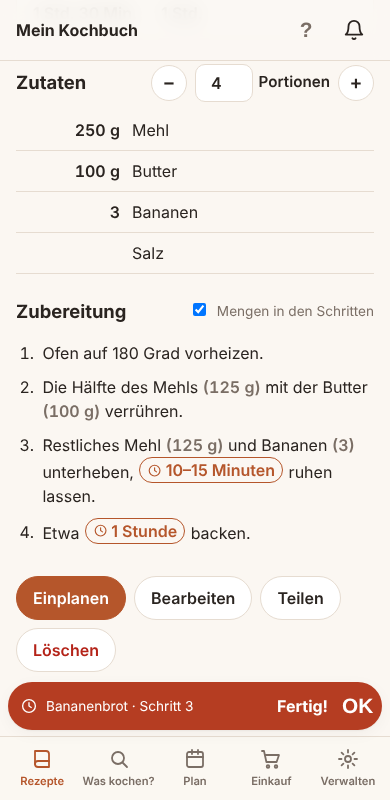
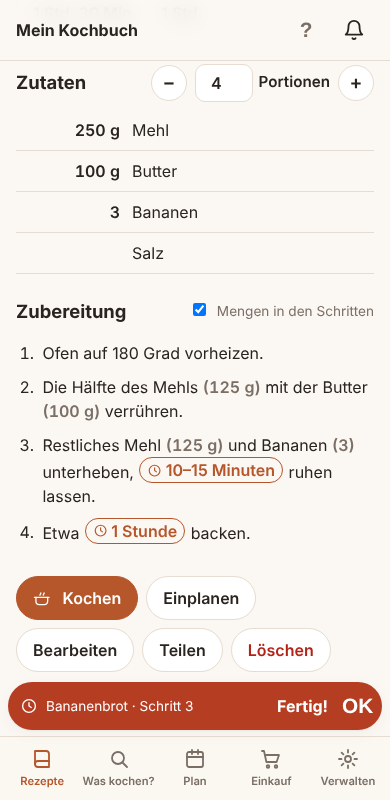
Kochmodus: ein Schritt pro Seite in großer Schrift, Display bleibt an
Claude-Session: https://claude.ai/code/session_01Sn2LMM1asrdDShbnJhnSSW

Changed region(s): [[0.0923, 0.7188, 0.6154, 0.8438], [0.6462, 0.7188, 0.8308, 0.8438]]

diff --git a/js/app.js b/js/app.js
@@ -231,6 +231,161 @@ function stepTextHtml(text, label, amounts = [], amountOf = null) {
   }).join('');
 }
 
+// ---------- Kochmodus ----------
+// Eine Seite über dem ganzen Bildschirm: erst die Zutaten, dann je Schritt eine Seite in
+// großer Schrift, zum Schluss "Fertig". Solange sie offen ist, bleibt das Display an.
+
+let cookMode = null;
+
+async function keepScreenOn() {
+  if (!cookMode) return;
+  try {
+    cookMode.lock = await navigator.wakeLock.request('screen');
+    cookMode.lock.addEventListener?.('release', () => { if (cookMode) cookMode.lock = null; });
+  } catch {
+    cookMode.lock = null;
+    const hint = cookMode.panel.querySelector('.cook-wake');
+    if (hint) hint.hidden = false;
+  }
+}
+
+// Gibt das Display frei, wenn man die App verlässt; beim Zurückkommen wird neu gesperrt.
+document.addEventListener('visibilitychange', () => {
+  if (cookMode && document.visibilityState === 'visible' && !cookMode.lock) keepScreenOn();
+});
+window.addEventListener('hashchange', () => closeCookMode());
+document.addEventListener('keydown', (e) => {
+  if (!cookMode) return;
+  if (e.key === 'Escape') closeCookMode();
+  if (e.key === 'ArrowRight') cookMode.go(1);
+  if (e.key === 'ArrowLeft') cookMode.go(-1);
+});
+
+function closeCookMode() {
+  if (!cookMode) return;
+  const { panel, lock, onClose } = cookMode;
+  cookMode = null;
+  lock?.release?.().catch(() => {});
+  panel.classList.remove('open');
+  setTimeout(() => panel.remove(), 300);
+  document.body.classList.remove('cooking');
+  if (!document.querySelector('dialog[open]')) document.documentElement.classList.remove('sheet-open');
+  onClose?.();
+}
+
+function openCookMode(r, { servings, own, videos = [], onClose }) {
+  closeCookMode();
+  const factor = servings / r.servings;
+  const stepQty = stepAmounts(r.steps.map(stepText), r.ingredients);
+  const amountOf = showStepAmounts() ? ({ ing, share }) => formatQuantity(r.ingredients[ing], factor * share) : null;
+  // Seiten: Zutaten (falls vorhanden), jeder Schritt, Fertig.
+  const pages = [
+    ...(r.ingredients.length ? [{ kind: 'ing' }] : []),
+    ...r.steps.map((s, i) => ({ kind: 'step', i, s })),
+    { kind: 'done' },
+  ];
+  const checks = () => checksFor(loadChecks(), r.id);
+  // Wer schon Schritte abgehakt hat, landet beim Schritt nach dem letzten Haken.
+  const done = checks().steps;
+  const resume = done.length ? pages.findIndex((p) => p.kind === 'step' && p.i === Math.max(...done) + 1) : -1;
+  let at = Math.max(0, resume);
+
+  const panel = document.createElement('section');
+  panel.className = 'cook-mode';
+  panel.setAttribute('role', 'dialog');
+  panel.setAttribute('aria-label', `Kochmodus: ${r.title}`);
+  panel.innerHTML = `<header class="cook-head">
+      <button type="button" class="icon-btn" data-close aria-label="Kochmodus beenden">←</button>
+      <div><h2>${esc(r.title)}</h2><p class="cook-at" aria-live="polite"></p></div>
+    </header>
+    <p class="hint cook-wake" hidden>Dieses Gerät lässt das Display hier nicht dauerhaft an. Tippe ab und zu auf den Bildschirm.</p>
+    <div class="cook-page"></div>
+    <div class="cook-video" hidden></div>
+    <nav class="cook-nav">
+      <button type="button" class="btn" data-go="-1">‹ Zurück</button>
+      <button type="button" class="btn primary" data-go="1">Weiter ›</button>
+    </nav>`;
+  document.body.append(panel);
+  document.body.classList.add('cooking');
+  document.documentElement.classList.add('sheet-open');
+  requestAnimationFrame(() => panel.classList.add('open'));
+  const page = panel.querySelector('.cook-page');
+  const videoBox = panel.querySelector('.cook-video');
+  const stepCount = r.steps.length;
+
+  const closeVideo = () => { videoBox.hidden = true; videoBox.innerHTML = ''; };
+  const draw = () => {
+    const p = pages[at];
+    const c = checks();
+    panel.querySelector('.cook-at').textContent = p.kind === 'ing' ? `Zutaten · ${servings} ${servings === 1 ? 'Portion' : 'Portionen'}`
+      : p.kind === 'step' ? `Schritt ${p.i + 1} von ${stepCount}` : 'Fertig';
+    if (p.kind === 'ing') {
+      page.innerHTML = `<ul class="ingredients cook-ings">${r.ingredients.map((i, ii) => `<li class="checkable${c.ing.includes(ii) ? ' checked' : ''}" data-ing="${ii}">
+        <span class="qty">${esc(formatQuantity(i, factor))}</span><span>${ingredientLabel(i)}</span></li>`).join('')}</ul>`;
+    } else if (p.kind === 'step') {
+      const v = stepVideo(p.s, videos);
+      const t = v ? stepTime(p.s) : null;
+      page.innerHTML = `<p class="cook-step checkable${c.steps.includes(p.i) ? ' checked' : ''}" data-step="${p.i}">${stepTextHtml(stepText(p.s), `${r.title} · Schritt ${p.i + 1}`, stepQty[p.i], amountOf)}</p>
+        ${t != null ? `<button type="button" class="btn small cook-seek" data-t="${t}" data-video="${esc(v.key)}">${symbol('video')}Video ab ${formatTime(t)}</button>` : ''}
+        <p class="hint">Tippe auf den Text, um den Schritt abzuhaken.</p>`;
+    } else {
+      page.innerHTML = `<div class="cook-done">${symbol('cooked')}<p>Guten Appetit!</p>
+        ${own && cookedColumn ? '<button type="button" class="btn primary" data-cooked>Fertig, heute gekocht</button>' : ''}
+        <button type="button" class="btn" data-close>Kochmodus beenden</button></div>`;
+    }
+    panel.querySelector('[data-go="-1"]').disabled = at === 0;
+    const next = panel.querySelector('[data-go="1"]');
+    next.hidden = at === pages.length - 1;
+    page.scrollTop = 0;
+  };
+  const go = (d) => {
+    const n = at + d;
+    if (n < 0 || n >= pages.length) return;
+    at = n;
+    closeVideo();
+    draw();
+  };
+
+  panel.addEventListener('click', async (e) => {
+    if (e.target.closest('[data-close]')) { closeCookMode(); return; }
+    const nav = e.target.closest('[data-go]');
+    if (nav) { go(Number(nav.dataset.go)); return; }
+    const chip = e.target.closest('.timer-chip');
+    if (chip) { addTimer(chip.dataset.label, Number(chip.dataset.timer)); return; }
+    const seek = e.target.closest('.cook-seek');
+    if (seek) {
+      const v = videos.find((x) => x.key === seek.dataset.video);
+      if (!v) return;
+      videoBox.innerHTML = `<div class="cook-video-head"><span>Video</span><button type="button" class="icon-btn" data-video-close aria-label="Video schließen">×</button></div>
+        <div class="video${v.vertical ? ' vertical' : ''}"><iframe src="${esc(embedUrl(v, location.origin, Number(seek.dataset.t)))}" title="Video zum Schritt"
+          allow="autoplay; encrypted-media; picture-in-picture; fullscreen" allowfullscreen referrerpolicy="strict-origin-when-cross-origin"></iframe></div>`;
+      videoBox.hidden = false;
+      return;
+    }
+    if (e.target.closest('[data-video-close]')) { closeVideo(); return; }
+    if (e.target.closest('[data-cooked]')) {
+      const day = today();
+      const { error } = await supabase.from('recipes').update({ last_cooked: day }).eq('id', r.id);
+      if (error) { toast(error.message); return; }
+      r.last_cooked = day;
+      toast('Als heute gekocht gespeichert');
+      closeCookMode();
+      return;
+    }
+    if (e.target.closest('button, a, input')) return;
+    const li = e.target.closest('.checkable');
+    if (!li) return;
+    const kind = li.dataset.ing != null ? 'ing' : 'steps';
+    saveChecks(toggleCheck(loadChecks(), r.id, kind, Number(li.dataset.ing ?? li.dataset.step)));
+    li.classList.toggle('checked');
+  });
+  enableRecipeSwipe(page, go);
+
+  cookMode = { panel, lock: null, go, onClose };
+  draw();
+  keepScreenOn();
+}
+
 async function loadRecipes(force = false) {
   if (recipes && !force) return recipes;
   const { data, error } = await supabase.from('recipes').select('*').eq('owner_id', session.user.id);
@@ -1516,8 +1671,9 @@ function showRecipe(r, { own, back, backLabel, from = '', group = [], index = 0,
         ${sources.map(([u, href]) => `<li><a href="${esc(href)}" target="_blank" rel="noopener noreferrer">${esc(hostOf(u))}</a></li>`).join('')}
       </ul></section>` : ''}
 
-      <div class="actions">${own ? `
-        <button class="btn primary" id="plan-btn">Einplanen</button>
+      <div class="actions">
+        ${r.steps.length || r.ingredients.length ? `<button class="btn primary" id="cook-btn">${symbol('pot')}Kochen</button>` : ''}${own ? `
+        <button class="btn" id="plan-btn">Einplanen</button>
         <a class="btn" href="#/r/${r.id}/bearbeiten">Bearbeiten</a>
         <button class="btn" id="share">Teilen</button>
         <button class="btn danger" id="del">Löschen</button>` : session
@@ -1720,6 +1876,9 @@ function showRecipe(r, { own, back, backLabel, from = '', group = [], index = 0,
     const b = e.target.closest('.seek');
     if (b) showMedia(b.dataset.video, Number(b.dataset.t));
   });
+
+  const cookBtn = $('#cook-btn');
+  if (cookBtn) cookBtn.onclick = () => openCookMode(r, { servings, own, videos, onClose: drawChecks });
 
   if (!own) {
     if (session) $('#copy').onclick = (e) => copyRecipe(r, e.target);

diff --git a/styles.css b/styles.css
@@ -734,3 +734,35 @@ body.has-timers .toast { bottom: calc(150px + env(safe-area-inset-bottom)); }
 .step-qty { color: var(--muted); font-weight: 600; white-space: nowrap; font-variant-numeric: tabular-nums; }
 .section-head .check.small { margin: 0; font-size: 0.85rem; align-items: center; }
 .section-head .check.small input { margin-top: 0; }
+
+/* Kochmodus: ganze Seite, große Schrift, ein Schritt pro Seite */
+.cook-mode {
+  position: fixed; inset: 0; z-index: 25; display: flex; flex-direction: column; gap: 12px;
+  padding: calc(10px + env(safe-area-inset-top)) 16px calc(12px + env(safe-area-inset-bottom));
+  background: var(--bg); transform: translateX(100%); transition: transform 0.25s ease;
+}
+.cook-mode.open { transform: none; }
+@media (prefers-reduced-motion: reduce) { .cook-mode { transition: none; } }
+.cook-head { display: flex; align-items: center; gap: 8px; }
+.cook-head h2 { font-size: 1.05rem; line-height: 1.3; }
+.cook-at { margin: 0; color: var(--muted); font-size: 0.9rem; font-weight: 600; }
+.cook-wake { margin: 0; }
+.cook-page { flex: 1; overflow-y: auto; overscroll-behavior: contain; touch-action: pan-y; padding: 8px 2px; }
+.cook-step { font-size: 1.75rem; line-height: 1.4; margin: 8px 0 20px; }
+.cook-step .timer-chip { padding: 0 10px; }
+.cook-ings { font-size: 1.3rem; }
+.cook-ings li { grid-template-columns: 7.5rem 1fr; padding: 12px 0; }
+.cook-seek { margin-bottom: 12px; }
+.cook-done { display: grid; justify-items: center; gap: 14px; padding-top: 12vh; text-align: center; font-size: 1.3rem; }
+.cook-done .sym { width: 4rem; height: 4rem; margin: 0; color: var(--accent); stroke-width: 1.3; }
+.cook-done p { margin: 0; font-weight: 600; }
+.cook-nav { display: flex; gap: 10px; }
+.cook-nav .btn { flex: 1; justify-content: center; min-height: 52px; font-size: 1.1rem; }
+.cook-nav .btn[hidden] { display: none; }
+.cook-video { border: 1px solid var(--border); border-radius: var(--radius); padding: 6px; background: var(--surface); }
+.cook-video[hidden] { display: none; }
+.cook-video-head { display: flex; justify-content: space-between; align-items: center; padding-left: 8px; font-weight: 600; }
+.cook-video .video { max-height: 38vh; }
+.cook-video .video iframe { max-height: 38vh; }
+body.cooking .timers { z-index: 30; bottom: calc(80px + env(safe-area-inset-bottom)); }
+body.cooking .toast { z-index: 35; }

diff --git a/js/help.js b/js/help.js
@@ -18,8 +18,11 @@ export const HELP = [
   },
   {
     id: 'beimkochen',
-    title: 'Beim Kochen: Haken, Timer und Mengen',
+    title: 'Kochmodus, Haken, Timer und Mengen',
     lines: [
+      '„Kochen“ im Rezept öffnet den Kochmodus: zuerst die Zutaten, dann jeder Schritt groß auf einer eigenen Seite. Wische oder tippe auf „Weiter“ und „Zurück“.',
+      'Solange der Kochmodus offen ist, bleibt das Display an. Hat ein Schritt einen Zeitstempel, öffnet „Video ab …“ das Video unten auf der Seite.',
+      'Auf der letzten Seite speichert „Fertig, heute gekocht“ das Datum als „zuletzt gekocht“. Öffnest du den Kochmodus wieder, geht es beim Schritt nach deinem letzten Haken weiter.',
       'Tippe im Rezept auf eine Zutat oder einen Schritt, um sie durchzustreichen. Ein zweiter Tipp nimmt den Haken zurück.',
       'Die Haken bleiben auf diesem Gerät stehen, auch wenn du die App schließt. Nach 12 Stunden ohne neuen Haken beginnt das Rezept wieder leer, oder du tippst auf „Haken entfernen“.',
       'Zeitangaben in den Schritten wie „20 Minuten“ sind eingerahmt. Ein Tipp darauf startet einen Timer; bei einer Spanne wie „10–15 Minuten“ läuft er auf den kleineren Wert.',

diff --git a/sw.js b/sw.js
@@ -1,6 +1,6 @@
 // Einfacher Service Worker: macht die App installierbar und hält die App-Dateien
 // für schlechte Verbindungen vor. Daten von Supabase werden nicht zwischengespeichert.
-const CACHE = 'kochbuch-v32';
+const CACHE = 'kochbuch-v33';
 const SHELL = [
   './', 'index.html', 'styles.css', 'manifest.webmanifest',
   'js/app.js', 'js/supabase.js', 'js/config.js', 'js/ingredients.js', 'js/pantry.js', 'js/shopping.js', 'js/season.js', 'js/video.js', 'js/categories.js', 'js/places.js', 'js/links.js',

diff --git a/js/news.js b/js/news.js
@@ -5,6 +5,13 @@
 
 export const NEWS = [
   {
+    version: '2026-10-19-kochmodus',
+    title: 'Kochmodus',
+    lines: [
+      { text: '„Kochen“ im Rezept zeigt jeden Schritt groß auf einer eigenen Seite, und das Display bleibt dabei an.', ziel: '#/hilfe/beimkochen' },
+    ],
+  },
+  {
     version: '2026-10-19-mengen-schritte',
     title: 'Mengen in den Schritten',
     lines: [

diff --git a/README.md b/README.md
@@ -45,6 +45,8 @@ Zeitangaben in Schritten („20 Minuten“, „10–15 Min.“, „1 Std. und 20
 
 Hinter Zutaten im Schritttext setzt die Rezeptansicht die Menge in Klammern, umgerechnet auf die eingestellten Portionen (`stepAmounts` und `stepPieces` in `js/cooking.js`). Erkannt wird über das letzte Wort des Zutatennamens, mit demselben Normalisieren wie bei „Was kochen?“. Ein Anteil davor („die Hälfte des“, „ein Drittel der“, „1/4 der“) gilt immer; „Rest“, „restliche“, „übrige“ bekommt, was frühere Schritte übrig ließen; ohne Anteil steht die Menge nur bei der ersten Erwähnung, „etwas“ bekommt keine. Der Schalter „Mengen in den Schritten“ über der Zubereitung bleibt auf dem Gerät (`kochbuch.stepAmounts`).
 
+Der Kochmodus (`openCookMode` in `js/app.js`, Knopf „Kochen“ im Rezept) legt eine Seite über den ganzen Bildschirm: Zutaten für die eingestellten Portionen, je Schritt eine Seite in großer Schrift mit Timern und Mengen, zum Schluss „Fertig“. Er nutzt dieselben Haken wie die Rezeptansicht und beginnt beim Schritt nach dem letzten Haken. Das Display hält `navigator.wakeLock` an; die Sperre wird nach dem Zurückkehren in die App neu angefordert, und wo das Gerät sie nicht kann, steht ein Hinweis. „Fertig, heute gekocht“ setzt `last_cooked` (nur bei eigenen Rezepten und mit `gekocht.sql`). Ein Zeitstempel öffnet das Video in einem kleinen Fenster unten, neu geladen ab der Stelle.
+
 ## Alternativrezepte
 
 Zu einem Rezept lassen sich andere Rezepte als Alternative hinterlegen (im Rezept auf „Bearbeiten“, Abschnitt *Alternativen*). Eine Verknüpfung gilt immer in beide Richtungen: hängt B als Alternative an A, erscheint A auch bei B. „+ Alternative“ öffnet eine Auswahlseite über den ganzen Bildschirm mit drei Reitern: **Tags** (Rezepte mit gemeinsamen Tags, die meisten Überschneidungen zuerst), **Verwandte** (die Alternativen der schon verknüpften Rezepte) und **Titel** (freie Suche). Ein Reiter ohne Treffer ist ausgegraut. Im Reiter *Tags* stehen oben die Tags des Rezepts: ausgewählte Tags (mehrere möglich) grenzen die Vorschläge darauf ein, „alle“ nimmt den Filter weg. Bei jedem Treffer stehen seine Tags, die passenden hervorgehoben. Ein Tipp verknüpft, ein zweiter löst wieder; die Seite bleibt offen, bis man auf „Fertig“ tippt – der Zurück-Pfeil oben links verwirft. Hat ein gewähltes Rezept selbst Alternativen, fragt die Seite direkt darunter, ob die ganze Gruppe mit soll.
